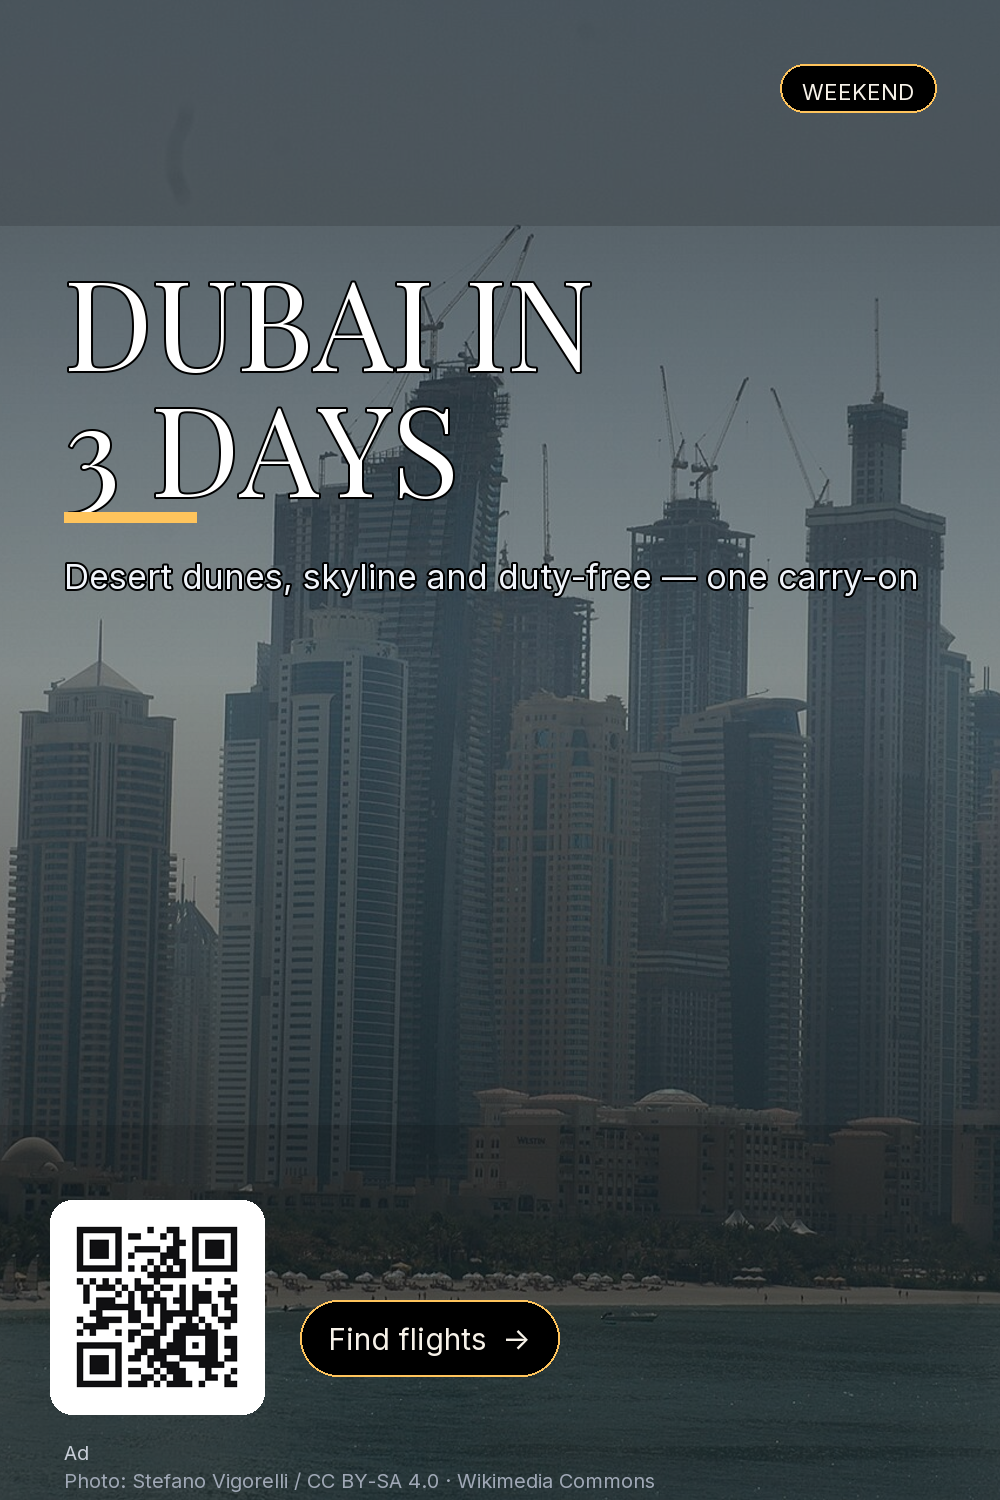
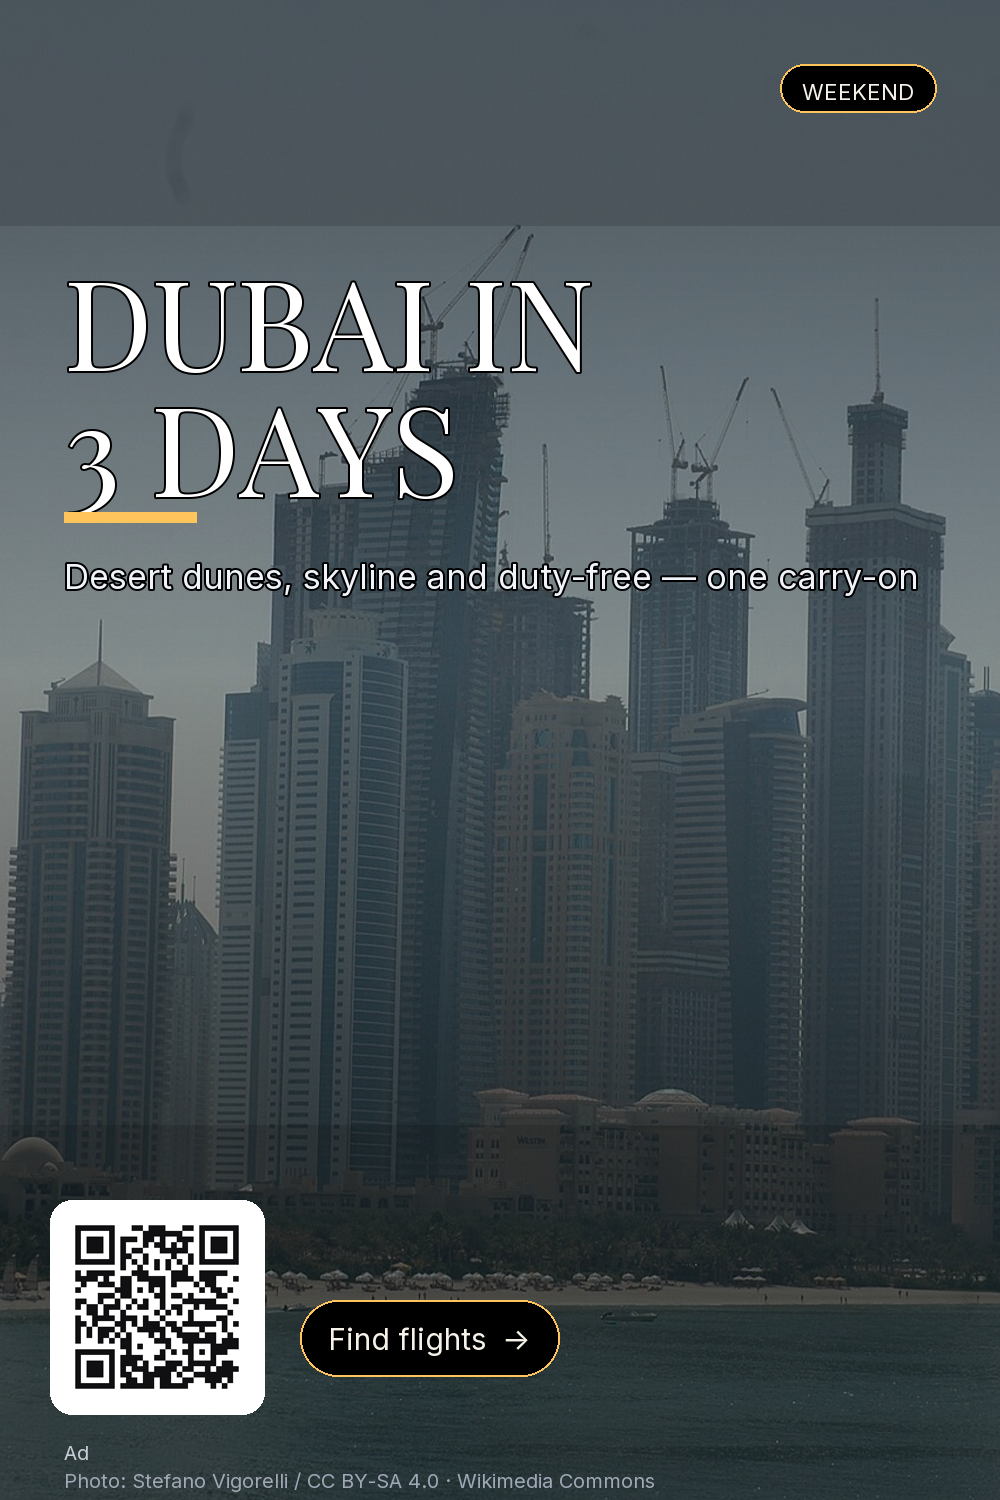
fix(pins): no dead links in legacy pin batches
- legacy sidecars: pin.media_source.url now equals image_url (10 files were
  pointing at missing root PNG paths -> 404/503)
- legacy photo/ and qr/ batches regenerated with active partner QR links
  (is.gd placeholders replaced via config/affiliate_links.yaml)
- pinterest-import-qr.csv: Link column now real partner URLs
- build_qr_pins.py: no hardcoded short links; CTA text updated

Changed region(s): [[0.062, 0.7973, 0.248, 0.9507]]

diff --git a/scripts/build_qr_pins.py b/scripts/build_qr_pins.py
@@ -23,8 +23,8 @@ PINS = [
         "niche": "TRAVEL DEAL",
         "headline": "Bali on a budget",
         "subtitle": "Rice terraces, surf and $3 meals — 7-day plan under $500",
-        "cta": "Scan or visit is.gd/BaliTrip",
-        "url": "https://is.gd/BaliTrip",
+        "cta": "Scan \u2192 find flights",
+        "url": "https://aviasales.tpk.ro/2ZW95Xpf",
         "accent": (46, 204, 149),
     },
     {
@@ -32,8 +32,8 @@ PINS = [
         "niche": "TRAVEL DEAL",
         "headline": "Dubai weekend",
         "subtitle": "Desert dunes, skyline views, duty-free — 3 days, one carry-on",
-        "cta": "Scan or visit is.gd/DubaiTrip",
-        "url": "https://is.gd/DubaiTrip",
+        "cta": "Scan \u2192 find flights",
+        "url": "https://aviasales.tpk.ro/2ZW95Xpf",
         "accent": (240, 180, 60),
     },
     {
@@ -41,8 +41,8 @@ PINS = [
         "niche": "WINTER SUN",
         "headline": "3 winter escapes",
         "subtitle": "Lisbon 15°C · Dubai 25°C · Bali 30°C — cheap flights from $199",
-        "cta": "Scan or visit is.gd/Flights",
-        "url": "https://is.gd/Flights",
+        "cta": "Scan \u2192 find flights",
+        "url": "https://aviasales.tpk.ro/2ZW95Xpf",
         "accent": (64, 156, 255),
     },
     {
@@ -50,8 +50,8 @@ PINS = [
         "niche": "BUDGET TRIP",
         "headline": "Europe under $300",
         "subtitle": "3-night city break: cheapest months, carry-on and booking window",
-        "cta": "Scan or visit is.gd/EuropeTrip",
-        "url": "https://is.gd/EuropeTrip",
+        "cta": "Scan \u2192 find flights",
+        "url": "https://aviasales.tpk.ro/2ZW95Xpf",
         "accent": (196, 92, 120),
     },
     {
@@ -59,8 +59,8 @@ PINS = [
         "niche": "TRAVEL ESSENTIAL",
         "headline": "Travel eSIM",
         "subtitle": "Install before you fly — mobile data in 200+ countries, from a few dollars",
-        "cta": "Scan or visit is.gd/ESimDeal",
-        "url": "https://is.gd/ESimDeal",
+        "cta": "Scan \u2192 get eSIM",
+        "url": "https://yesim.tpk.ro/aU7AT4LC",
         "accent": (120, 90, 240),
     },
     {
@@ -68,8 +68,8 @@ PINS = [
         "niche": "TRAVEL ESSENTIAL",
         "headline": "Car rental, no surprises",
         "subtitle": "Local renters, clear fuel policy and excess cover — book before you fly",
-        "cta": "Scan or visit is.gd/CarRental",
-        "url": "https://is.gd/CarRental",
+        "cta": "Scan \u2192 rent a car",
+        "url": "https://localrent.tpk.ro/vGHu8Vuj",
         "accent": (240, 120, 60),
     },
     {
@@ -77,8 +77,8 @@ PINS = [
         "niche": "TRAVEL MONEY",
         "headline": "Flight delayed?",
         "subtitle": "You may be owed up to €600 — check your flight in 2 minutes",
-        "cta": "Scan or visit is.gd/Compensair",
-        "url": "https://is.gd/Compensair",
+        "cta": "Scan \u2192 check my flight",
+        "url": "https://compensair.tpk.ro/yhsBLUP1",
         "accent": (60, 200, 190),
     },
 ]
